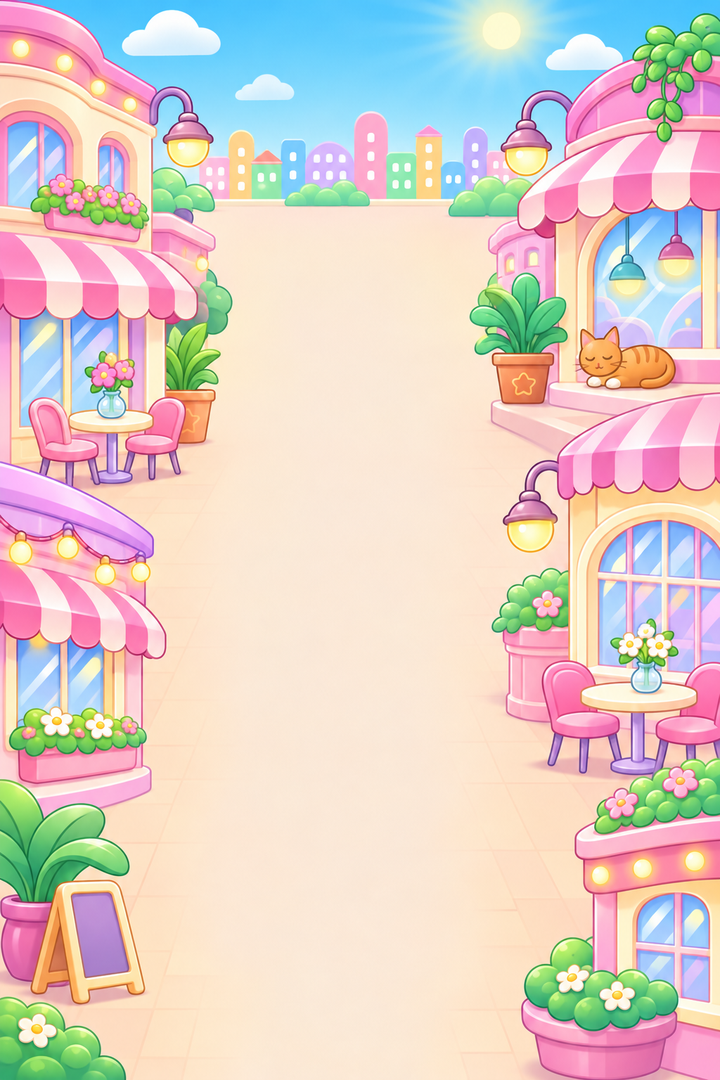
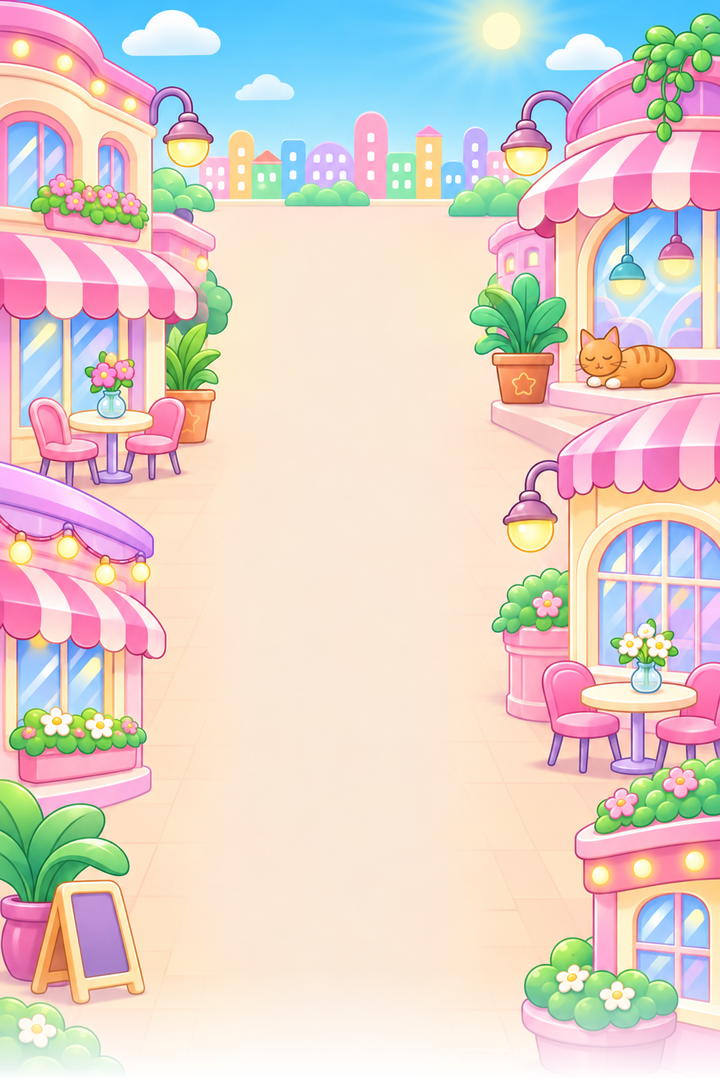
Карта: фоны района стыкуются без неба и без шва, повтор картинки отражается слева направо

Changed region(s): [[0.0, 0.9167, 1.0, 1.0]]

diff --git a/tools/art/feather_mapbg.py b/tools/art/feather_mapbg.py
@@ -1,0 +1,39 @@
+#!/usr/bin/env python3
+"""Makes the map backgrounds of the game from the producer's pictures: assets/art_ready/map/map_bg_<district>.png
+-> assets/images/mapbg/bg_<district>.png (720x1080) with the bottom FEATHER px fading to transparent.
+
+The map lays the tiles of a district one over another (content/map.json tile_step, tile_feather): the faded bottom
+of a tile lies over the top of the tile below, so the sky of the picture is hidden and the ground runs on.
+
+  python3 tools/art/feather_mapbg.py [district ...]      # default: every map_bg_*.png of art_ready
+"""
+import glob
+import os
+import sys
+
+import numpy as np
+from PIL import Image
+
+ROOT = os.path.abspath(os.path.join(os.path.dirname(__file__), "..", ".."))
+READY = os.path.join(ROOT, "assets", "art_ready", "map")
+OUT = os.path.join(ROOT, "assets", "images", "mapbg")
+FEATHER = 110   # the same as tools/gen_map.py TILE_FEATHER
+
+
+def feather(im):
+    im = im.convert("RGB").resize((720, 1080), Image.LANCZOS)
+    a = np.full((1080, 720), 255, np.uint8)
+    a[1080 - FEATHER:, :] = (np.linspace(1.0, 0.0, FEATHER) * 255).astype(np.uint8)[:, None]
+    im.putalpha(Image.fromarray(a))
+    return im
+
+
+def main():
+    ids = sys.argv[1:] or sorted(os.path.basename(p)[7:-4] for p in glob.glob(os.path.join(READY, "map_bg_*.png")))
+    for did in ids:
+        feather(Image.open(os.path.join(READY, "map_bg_%s.png" % did))).save(os.path.join(OUT, "bg_%s.png" % did), optimize=True)
+        print("wrote mapbg/bg_%s.png" % did)
+
+
+if __name__ == "__main__":
+    main()

diff --git a/tools/gen_map.py b/tools/gen_map.py
@@ -26,6 +26,8 @@ FIRST_Y = 430       # y of level 1
 TOP_ROOM = 800      # room above the last level for the "new levels soon" sign
 AMPLITUDE = 170     # how far the path swings to the sides
 DECO_PER_SEGMENT = 12
+TILE_FEATHER = 110  # px at the bottom of a background tile that fade out (tools/art/feather_mapbg.py)
+TILE_STEP = 740     # a tile starts this far above the one below: it covers the sky (the top 230 px) of that one
 
 
 def load_content():
@@ -103,6 +105,8 @@ def build():
         "world_height": world_h,
         "level_count": LEVELS,
         "tile_h": 1080,
+        "tile_step": TILE_STEP,
+        "tile_feather": TILE_FEATHER,
         "node": {
             "day": {"size": 160, "hit": 52, "states": {s: "map/node_day_" + s for s in ("locked", "open", "current", "done")}},
             "concert": {"size": 224, "hit": 66, "states": {s: "map/node_concert_" + s for s in ("locked", "open", "current", "done")}},
